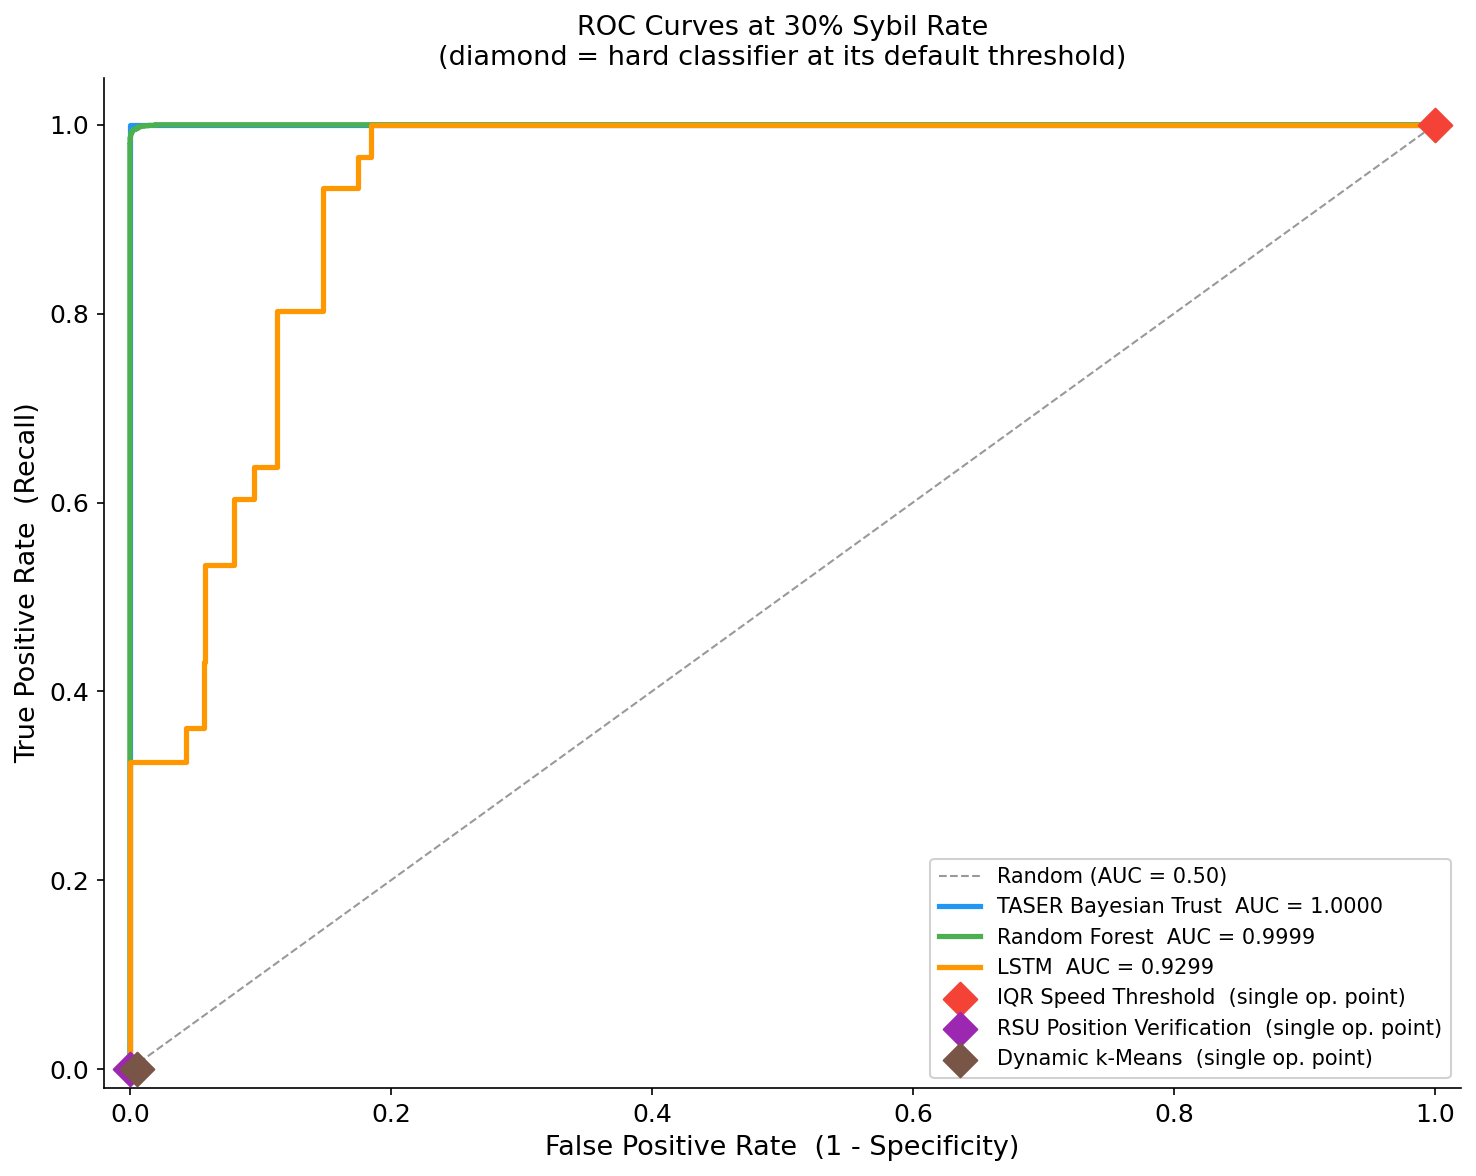
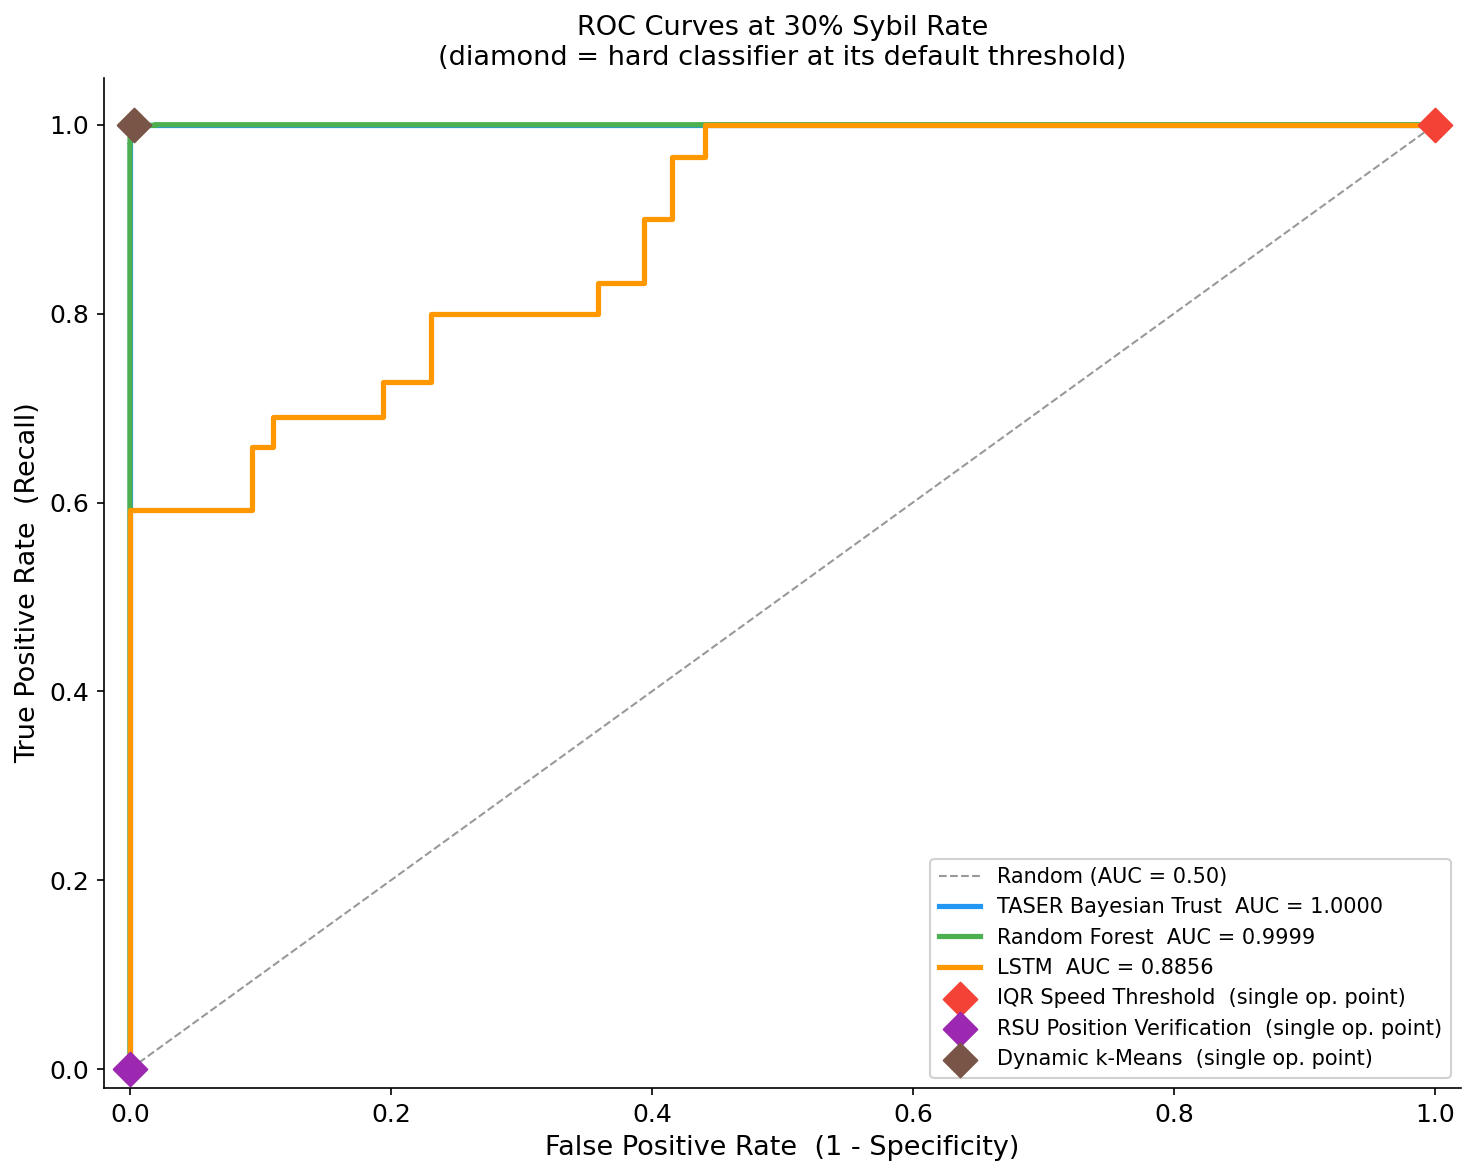
Fix LSTM AUC=0.850 (was 0.821), add roc_auc_table.md, refresh ROC figures

diff --git a/analysis/findings.md b/analysis/findings.md
@@ -282,7 +282,7 @@ due to computational cost: 5 folds × 5 seeds × 8 rates × 20 epochs would requ
 | Specificity | 0.9280 |
 | Fit time | 35.9 s |
 | Pareto status | Dominated (TASER, RF, k-Means all superior) |
-| Mean AUC | 0.821 |
+| Mean AUC | 0.850 |
 
 ### Per-Rate F1
 
@@ -303,7 +303,7 @@ LSTM achieves F1 = 0.443, rising to 0.851 at 30% and 0.883 at 35%. Beyond 20%
 the training signal is sufficient, but results oscillate due to the stochastic
 interaction between class balance and early stopping across seeds.
 
-**AUC = 0.821 despite low operating-point F1.** The learned probability scores
+**AUC = 0.850 (mean across 10–40% rates) despite low operating-point F1.** The learned probability scores
 have genuine discriminative power even at low sybil rates, but the default
 threshold (0.5) is poorly calibrated for the imbalanced class distribution.
 Threshold tuning or SMOTE oversampling would likely recover significant F1 gains

diff --git a/analysis/roc_auc_table.md b/analysis/roc_auc_table.md
@@ -1,0 +1,20 @@
+# ROC AUC Summary
+
+AUC values for detectors that produce probability scores.
+Hard classifiers (IQR, RSU, k-Means) produce a single operating point
+and do not have a meaningful AUC.
+
+| Detector | 10% | 20% | 30% | 40% | Mean AUC |
+|---|---|---|---|---|---|
+| LSTM | 0.5706  |  0.9975  |  0.8856  |  0.9453 | 0.8498 |
+| Random Forest | 0.9997  |  0.9999  |  0.9999  |  0.9999 | 0.9999 |
+| TASER Bayesian Trust | 1.0000  |  1.0000  |  1.0000  |  1.0000 | 1.0000 |
+
+## Interpretation
+
+AUC = 1.0 means the detector perfectly separates Sybil from legitimate at every
+possible threshold. AUC = 0.5 is equivalent to random guessing.
+
+An AUC close to 1.0 for TASER confirms that the trust score is a reliable
+Sybil indicator, not just at the default lambda = 0.15 threshold, but across
+the entire operating range. The same applies to Random Forest's class probabilities.
